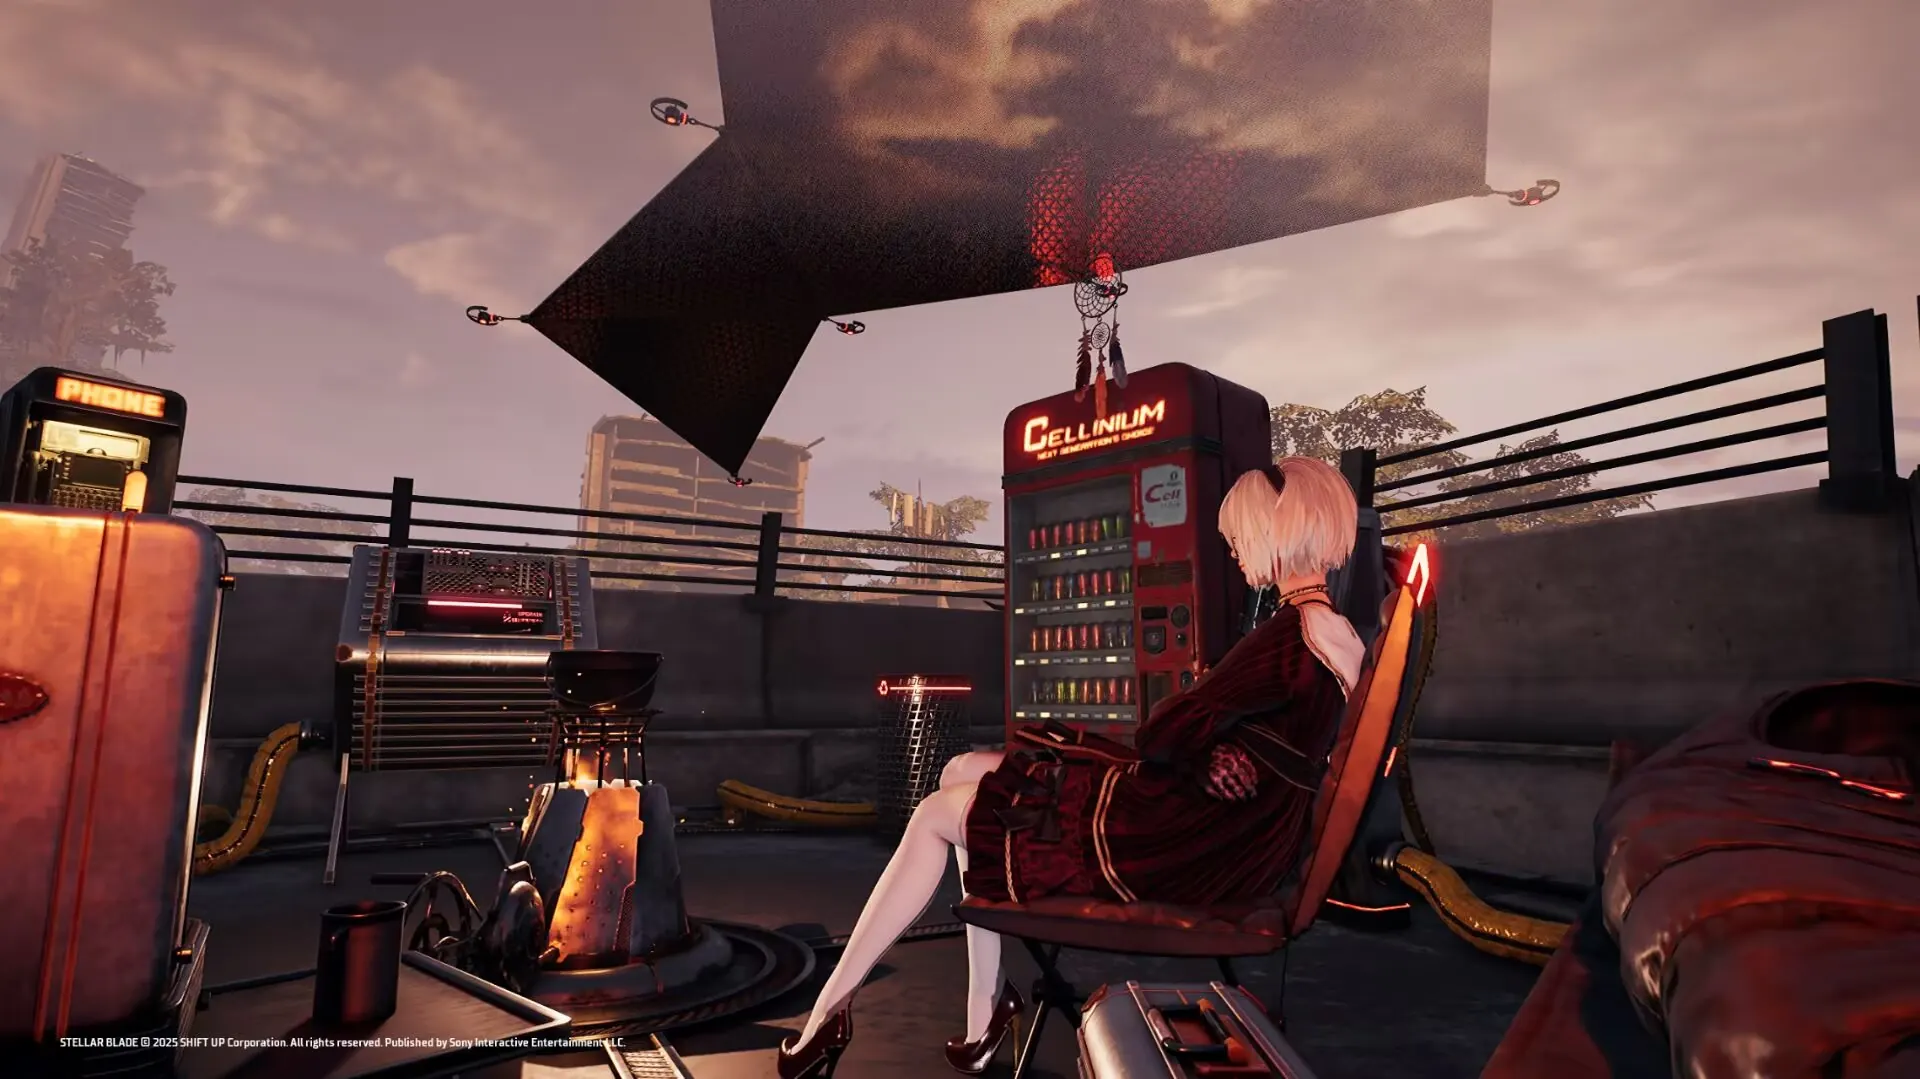
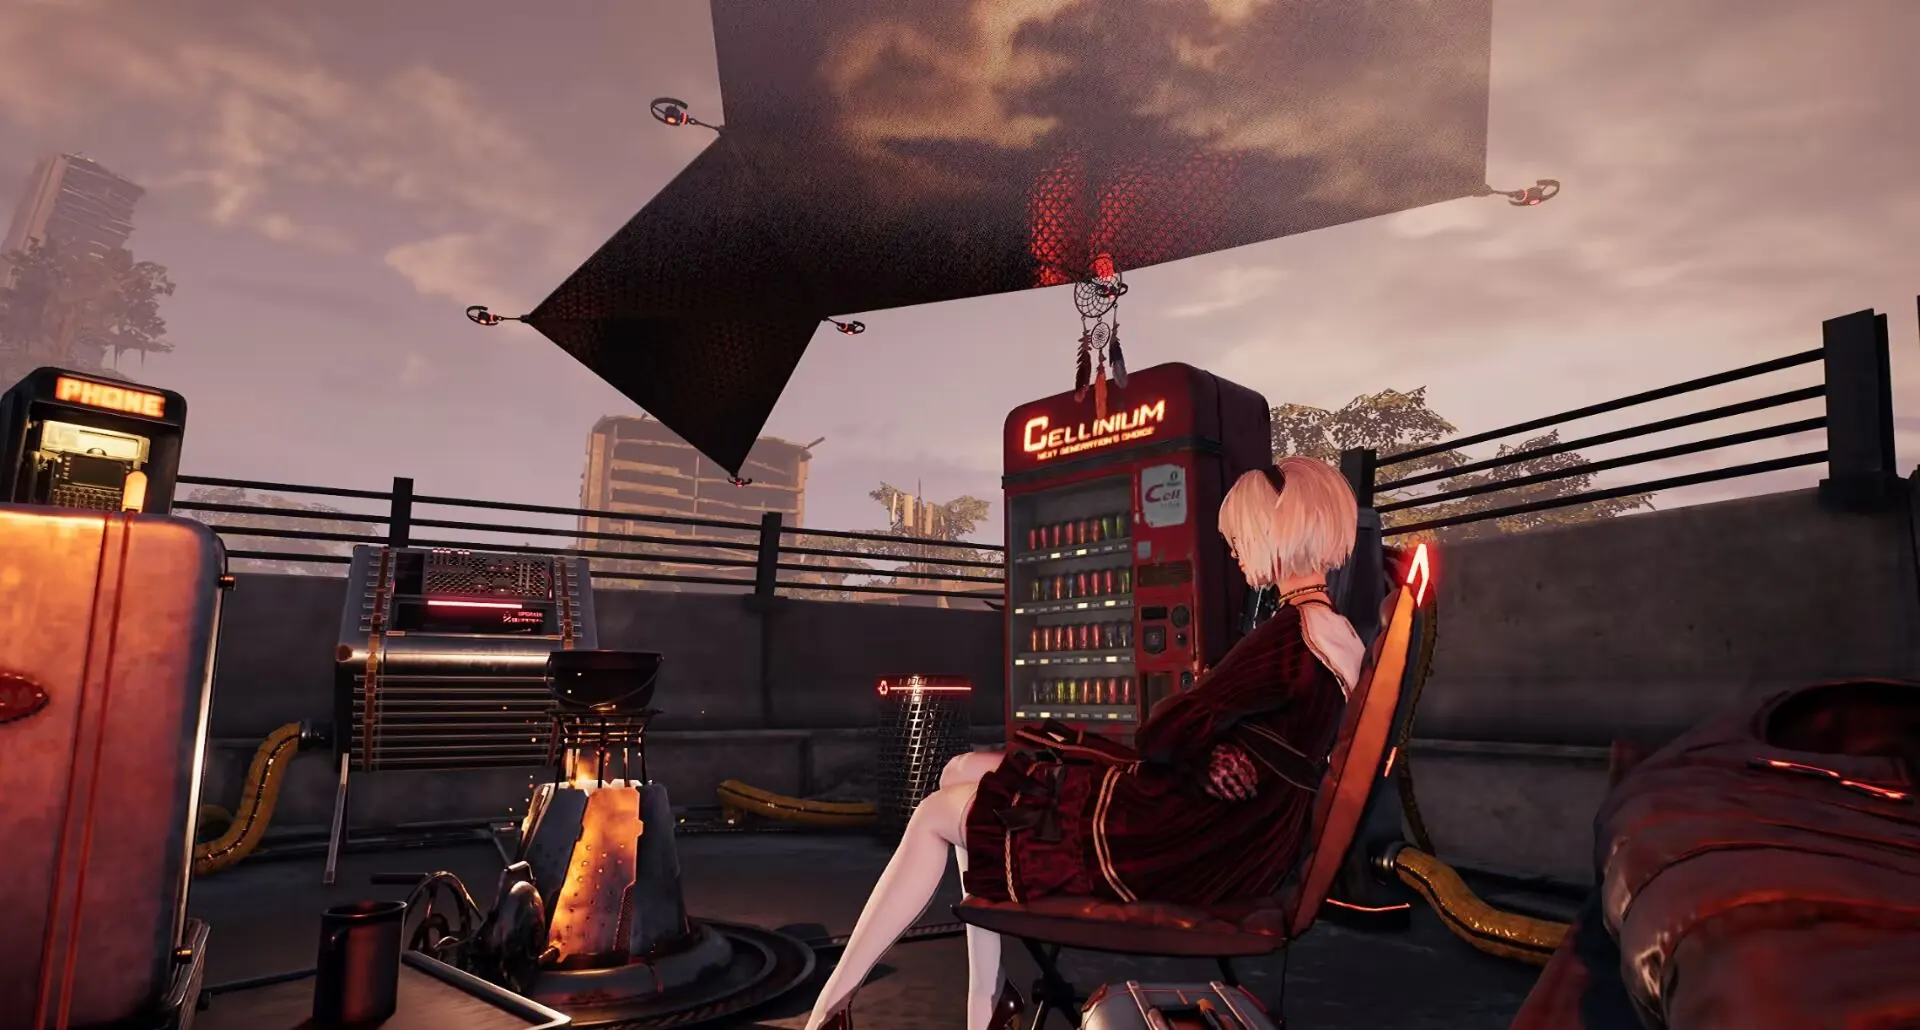
段间那张图：裁掉底部那行游戏版权声明
满屏时截图自带的水印行原样落在页面上，白字可读：
「© 2025 SHIFT UP Corporation. All rights reserved. Published by Sony
Interactive Entertainment LLC.」—— 公开站点上唯一一处别人的版权声明，
又被浮动操作栏压着半截，读起来像页面坏了一块。

- 从原始 jpg（1920×1079）重新导出，不叠二次压缩：逐行亮度统计定位到
  1038–1045 是文字带，裁到 1030（留 8px 余量），比例 1.78 → 1.86
- 仍 1920 宽，q78 / method 6，141KB → 130KB
- object-position 68% / 起始框 66×46 未动：cover 是高度对齐，图矮了 4.5%，
  横向可视范围随之收窄约 5%，实拍对照线上旧图差异在一个头像宽度以内

验证：tsc 0 错、eslint 干净、构建 16 页 + 404、smoke ALL RENDER；
CDP 实拍 1440×900 深色/浅色满屏（左下角无残留文字）、起始框、390 移动端，
scrollWidth 分别 1440 / 390。

diff --git a/DESIGN_PLAN.md b/DESIGN_PLAN.md
@@ -570,7 +570,8 @@ DPR2 下正好一个像素对一个像素。素材名跟着内容走：`contact-
 ### 17.1 换的是什么
 
 `public/me-cover.svg`（手绘的抽象界面剖面）→ `src/assets/rooftop-sunset.webp`：
-1920×1079 的黄昏天台截图，webp q78 / 141KB。走 import 而不是 public —— 构建期自动 hash，
+黄昏天台截图，webp q78。最初是 1920×1079 / 141KB，后来裁掉底部版权行变成
+1920×1030 / 130KB（见 §17.5）。走 import 而不是 public —— 构建期自动 hash，
 React 19 也会自己吐 `<link rel="preload" as="image">`，不用手写。
 
 ### 17.2 起始框必须跟着换
@@ -634,3 +635,21 @@ CDP 实拍：1440 深色（起始框 / 展开中 / 满屏）、1440 浅色、390
 `tsc` 0 错 · `eslint` 干净 · 构建 16 页 + 404 · `smoke` ALL RENDER。
 CDP 实拍：1440 深色（遮罩生效，`mask-image` 有值）、1440 浅色与 390 移动端
 （`mask-image: none`，与改动前一致），`scrollWidth` 分别 1440 / 390。
+
+### 17.5 裁掉底部那行版权声明（2026-10-29 晚）
+
+截图自带游戏的水印行，满屏时原样落在页面上，白字可读：
+
+> © 2025 SHIFT UP Corporation. All rights reserved. Published by Sony Interactive Entertainment LLC.
+
+一个讲工程审美的公开站点上，这是全站唯一一处「别人的版权声明」，而且它压在浮动操作栏后面，
+读起来像页面坏了一块。处理方式是最不花哨的那种：**裁掉**。
+
+- 从原始 jpg（1920×1079）重新导出，不叠二次压缩：底部 1038–1045 行是文字带（逐行亮度统计定位），
+  裁到 1030，留 8px 余量；比例 1.78 → 1.86
+- 素材仍 1920 宽，q78 / method 6，141KB → 130KB
+- `object-position: 68% 50%` 与起始框 66×46 未动：cover 是高度对齐，图变矮 4.5% 后
+  横向可视范围随之收窄约 5%，实拍对照线上旧图，取景差异在一个头像宽度以内
+
+不用「色块盖住」也不用「模糊」：遮住的是别人的声明，不是别人的脸 —— 但留着它更不合适，
+裁掉最干净，也不改变构图的任何主体。
